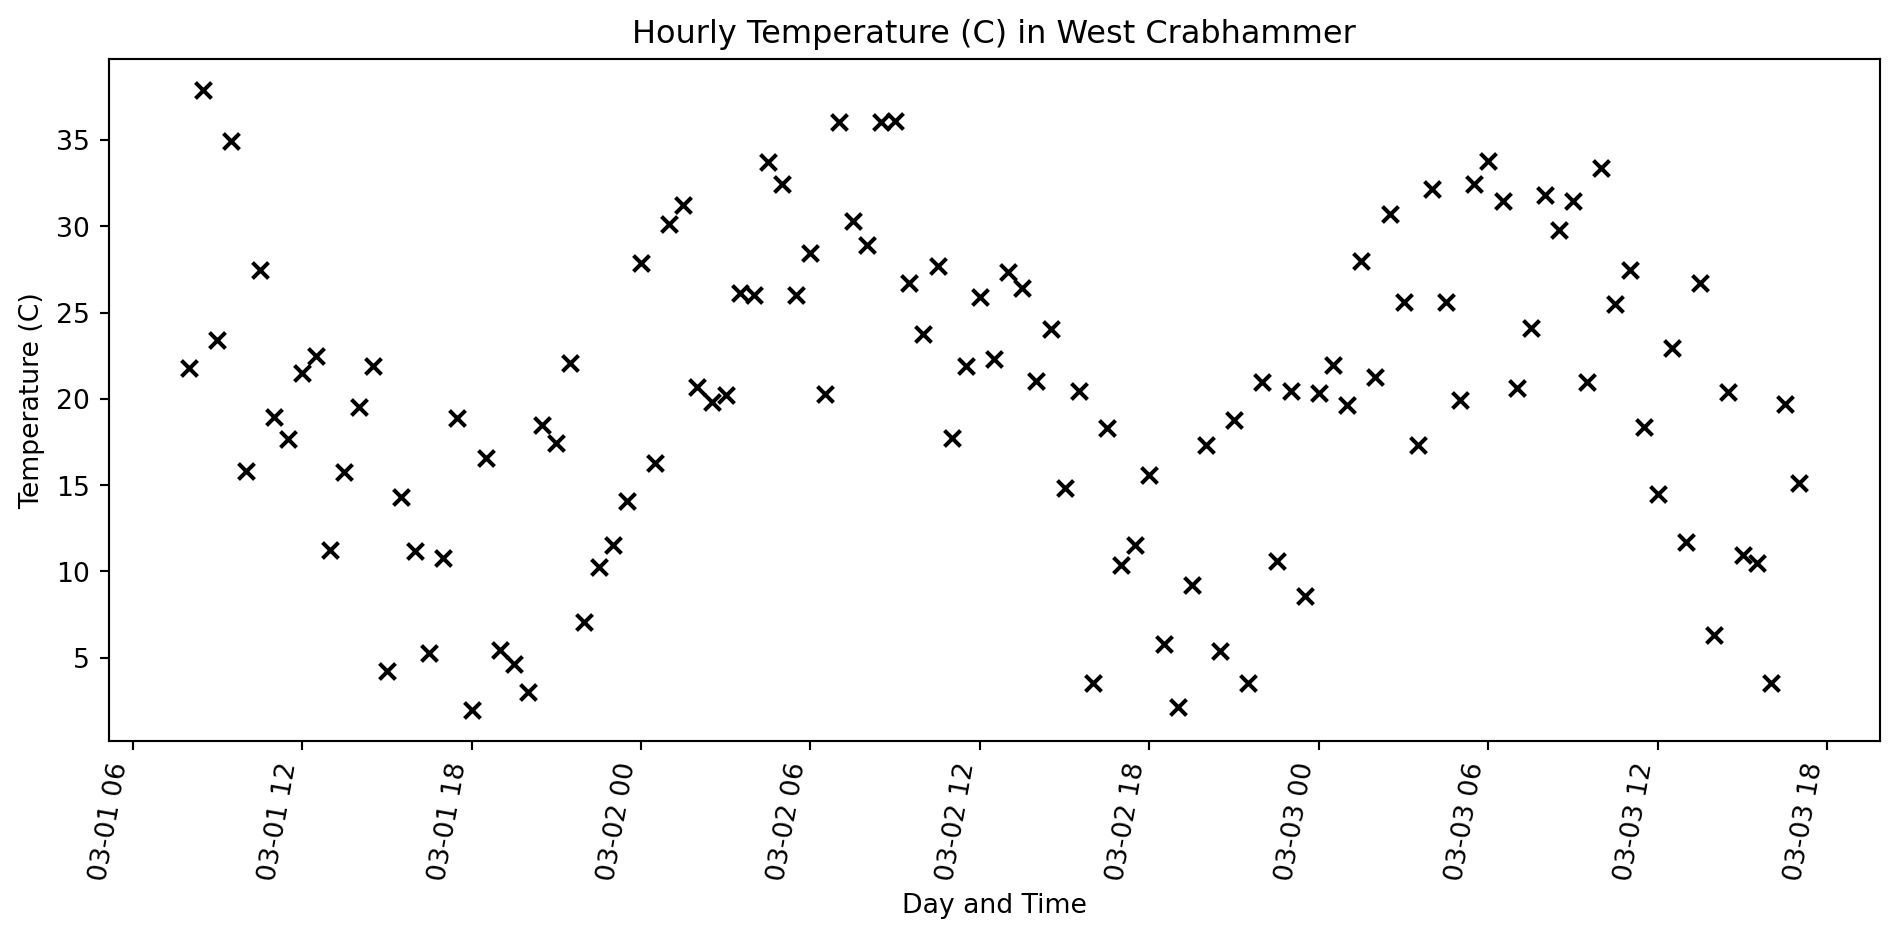
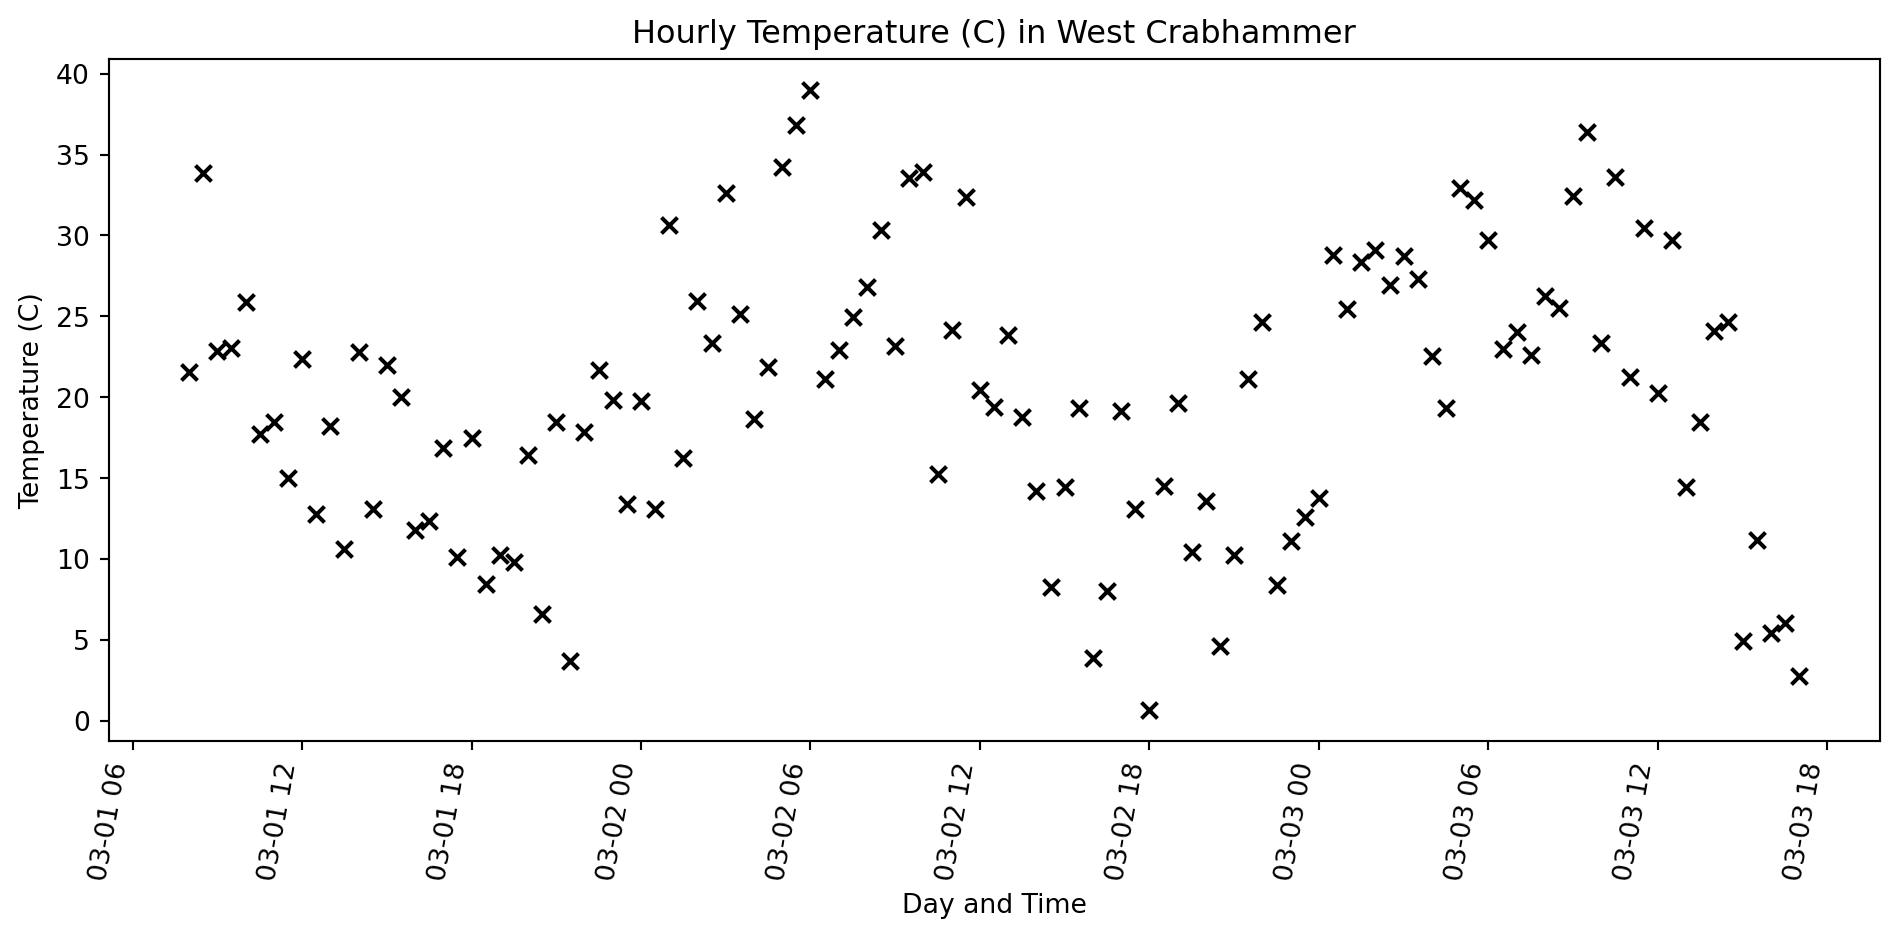
slideshow work

diff --git a/docs/python_geospatial_basics.html b/docs/python_geospatial_basics.html
@@ -261,7 +261,7 @@
 <section id="basic-numbers" class="slide level2">
 <h2>Basic Numbers</h2>
 <p>Floats and Ints don’t do anything all that surprising</p>
-<div id="c8378b85" class="cell columns column-output-location" data-execution_count="1">
+<div id="a79ac8a3" class="cell columns column-output-location" data-execution_count="1">
 <div class="column">
 <div class="sourceCode cell-code" id="cb1"><pre class="sourceCode numberSource python number-lines code-with-copy"><code class="sourceCode python"><span id="cb1-1"><a></a>a <span class="op">=</span> <span class="dv">2</span> <span class="op">+</span> <span class="dv">2</span></span>
 <span id="cb1-2"><a></a>b <span class="op">=</span> <span class="fl">2.0</span> <span class="op">+</span> <span class="fl">2.0</span></span>
@@ -288,7 +288,7 @@ but 5 // 4 is 1</code></pre>
 <section id="sequences" class="slide level2">
 <h2>Sequences</h2>
 <p>Lists, tuples, and strings ae all sequences</p>
-<div id="3318759a" class="cell columns column-output-location" data-execution_count="2">
+<div id="6182e902" class="cell columns column-output-location" data-execution_count="2">
 <div class="column">
 <div class="sourceCode cell-code" id="cb3"><pre class="sourceCode numberSource python number-lines code-with-copy"><code class="sourceCode python"><span id="cb3-1"><a></a><span class="co"># a list</span></span>
 <span id="cb3-2"><a></a>a_list <span class="op">=</span> [<span class="dv">1</span>, <span class="dv">2</span>, <span class="dv">3</span>, <span class="dv">4</span>, <span class="dv">5</span>, <span class="dv">6</span>, <span class="dv">7</span>, <span class="dv">8</span>, <span class="dv">9</span>]</span>
@@ -335,7 +335,7 @@ neushorn?</code></pre>
 </section>
 <section id="dictionaries" class="slide level2">
 <h2>Dictionaries</h2>
-<div id="69deb2e8" class="cell columns column-output-location" data-execution_count="3">
+<div id="16f4c487" class="cell columns column-output-location" data-execution_count="3">
 <div class="column">
 <div class="sourceCode cell-code" id="cb5"><pre class="sourceCode numberSource python number-lines code-with-copy"><code class="sourceCode python"><span id="cb5-1"><a></a>pets <span class="op">=</span> {<span class="st">'honden'</span>: <span class="dv">26</span>, <span class="st">'katten'</span>: <span class="dv">100</span>}</span>
 <span id="cb5-2"><a></a></span>
@@ -354,7 +354,7 @@ neushorn?</code></pre>
 </section>
 <section id="iterating" class="slide level2">
 <h2>Iterating</h2>
-<div id="c3d523f3" class="cell columns column-output-location" data-execution_count="4">
+<div id="3636a82a" class="cell columns column-output-location" data-execution_count="4">
 <div class="column">
 <div class="sourceCode cell-code" id="cb7"><pre class="sourceCode numberSource python number-lines code-with-copy"><code class="sourceCode python"><span id="cb7-1"><a></a>a <span class="op">=</span> [<span class="dv">1</span>, <span class="dv">2</span>, <span class="dv">3</span>, <span class="dv">4</span>, <span class="dv">5</span>, <span class="dv">6</span>, <span class="dv">7</span>, <span class="dv">8</span>, <span class="dv">9</span>]</span>
 <span id="cb7-2"><a></a></span>
@@ -383,7 +383,7 @@ is the same as
 </section>
 <section id="pandas-dataframe" class="slide level2 scrollable">
 <h2>Pandas DataFrame</h2>
-<div id="78f24d88" class="cell columns column-output-location" data-execution_count="5">
+<div id="84a1e12b" class="cell columns column-output-location" data-execution_count="5">
 <div class="column">
 <div class="sourceCode cell-code" id="cb9"><pre class="sourceCode numberSource python number-lines code-with-copy"><code class="sourceCode python"><span id="cb9-1"><a></a><span class="im">from</span> datetime <span class="im">import</span> datetime, timedelta</span>
 <span id="cb9-2"><a></a><span class="im">from</span> random <span class="im">import</span> uniform</span>
@@ -418,7 +418,7 @@ is the same as
 <span id="cb9-31"><a></a></span>
 <span id="cb9-32"><a></a>df.head()</span></code><button title="Copy to Clipboard" class="code-copy-button"><i class="bi"></i></button></pre></div>
 </div><div class="column">
-<div class="cell-output cell-output-display" data-execution_count="14">
+<div class="cell-output cell-output-display" data-execution_count="23">
 <div>
 <style scoped="">
     .dataframe tbody tr th:only-of-type {
@@ -446,27 +446,27 @@ is the same as
 <tr class="odd">
 <td data-quarto-table-cell-role="th">0</td>
 <td>2025-03-01 08:00:00</td>
-<td>37.822259</td>
+<td>38.655268</td>
 </tr>
 <tr class="even">
 <td data-quarto-table-cell-role="th">1</td>
 <td>2025-03-01 08:30:00</td>
-<td>21.415720</td>
+<td>33.360625</td>
 </tr>
 <tr class="odd">
 <td data-quarto-table-cell-role="th">2</td>
 <td>2025-03-01 09:00:00</td>
-<td>17.421332</td>
+<td>20.980570</td>
 </tr>
 <tr class="even">
 <td data-quarto-table-cell-role="th">3</td>
 <td>2025-03-01 09:30:00</td>
-<td>34.406014</td>
+<td>22.764801</td>
 </tr>
 <tr class="odd">
 <td data-quarto-table-cell-role="th">4</td>
 <td>2025-03-01 10:00:00</td>
-<td>29.216315</td>
+<td>28.484536</td>
 </tr>
 </tbody>
 </table>
@@ -477,7 +477,7 @@ is the same as
 </section>
 <section id="pandas-dataframe-cont." class="slide level2 scrollable">
 <h2>Pandas DataFrame Cont.</h2>
-<div id="9fa8542a" class="cell columns column-output-location" data-execution_count="6">
+<div id="9845e101" class="cell columns column-output-location" data-execution_count="6">
 <div class="column">
 <div class="sourceCode cell-code" id="cb10"><pre class="sourceCode numberSource python number-lines code-with-copy"><code class="sourceCode python"><span id="cb10-1"><a></a><span class="im">from</span> datetime <span class="im">import</span> datetime, timedelta</span>
 <span id="cb10-2"><a></a><span class="im">from</span> random <span class="im">import</span> uniform</span>
@@ -584,7 +584,7 @@ Figure&nbsp;1: A line plot on a polar axis
 <h2>Geopandas</h2>
 <p>g e o p a n d a s</p>
 </section>
-<section id="vector-data" class="slide level2">
+<section id="vector-data" class="slide level2 smaller">
 <h2>Vector Data</h2>
 <ul>
 <li class="fragment">Most often we will interact with vector data using <a href="https://geopandas.org/en/stable/">GeoPandas</a>
@@ -612,7 +612,7 @@ Figure&nbsp;1: A line plot on a polar axis
 </section>
 <section id="polygon" class="slide level2">
 <h2>Polygon</h2>
-<div id="0dfbd0ed" class="cell columns column-output-location" data-execution_count="8">
+<div id="10c42ee7" class="cell columns column-output-location" data-execution_count="8">
 <div class="column">
 <div class="sourceCode cell-code" id="cb12"><pre class="sourceCode numberSource python number-lines code-with-copy"><code class="sourceCode python"><span id="cb12-1"><a></a><span class="im">from</span> shapely <span class="im">import</span> Polygon</span>
 <span id="cb12-2"><a></a></span>
@@ -627,7 +627,7 @@ Figure&nbsp;1: A line plot on a polar axis
 <div class="cell-output cell-output-stdout">
 <pre><code>True</code></pre>
 </div>
-<div class="cell-output cell-output-display" data-execution_count="17">
+<div class="cell-output cell-output-display" data-execution_count="26">
 <div>
 <figure>
 <p><img data-src="python_geospatial_basics_files/figure-revealjs/cell-9-output-2.svg"></p>
@@ -639,7 +639,7 @@ Figure&nbsp;1: A line plot on a polar axis
 <section id="reading-files" class="slide level2">
 <h2>Reading Files</h2>
 <p>Here we will read a geogson using the <code>read_file</code> method.</p>
-<div id="b2390948" class="cell columns column-output-location" data-execution_count="9">
+<div id="6e64807b" class="cell columns column-output-location" data-execution_count="9">
 <div class="column">
 <div class="sourceCode cell-code" id="cb14"><pre class="sourceCode numberSource python number-lines code-with-copy"><code class="sourceCode python"><span id="cb14-1"><a></a><span class="im">from</span> pathlib <span class="im">import</span> Path</span>
 <span id="cb14-2"><a></a><span class="im">import</span> geopandas <span class="im">as</span> gpd</span>
